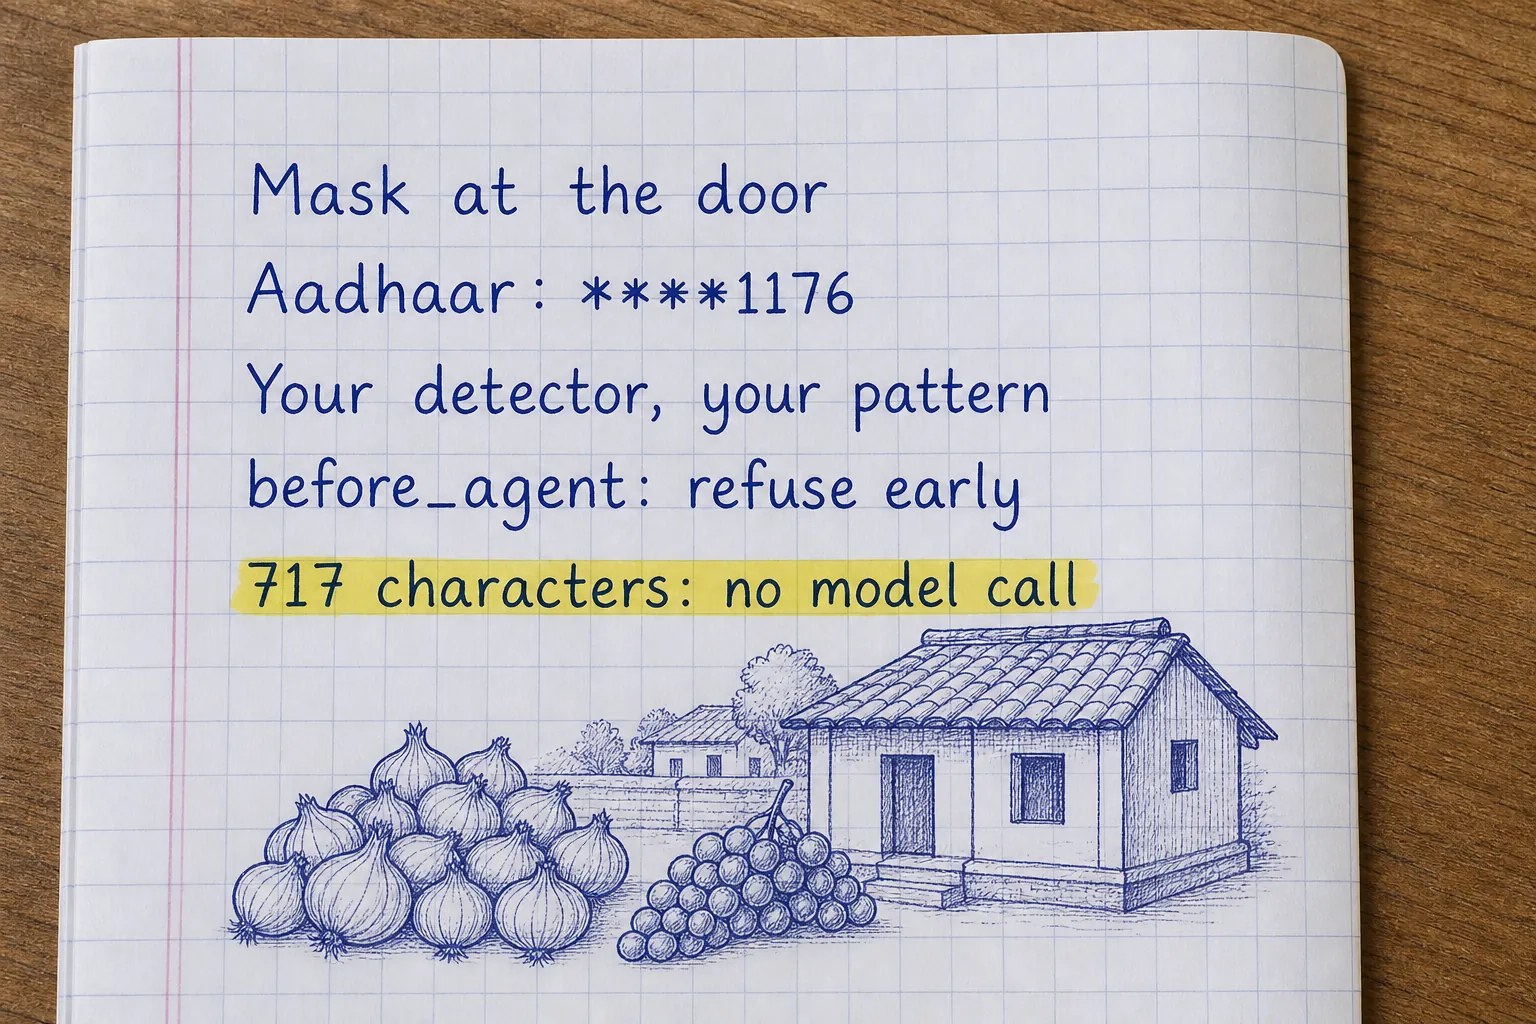
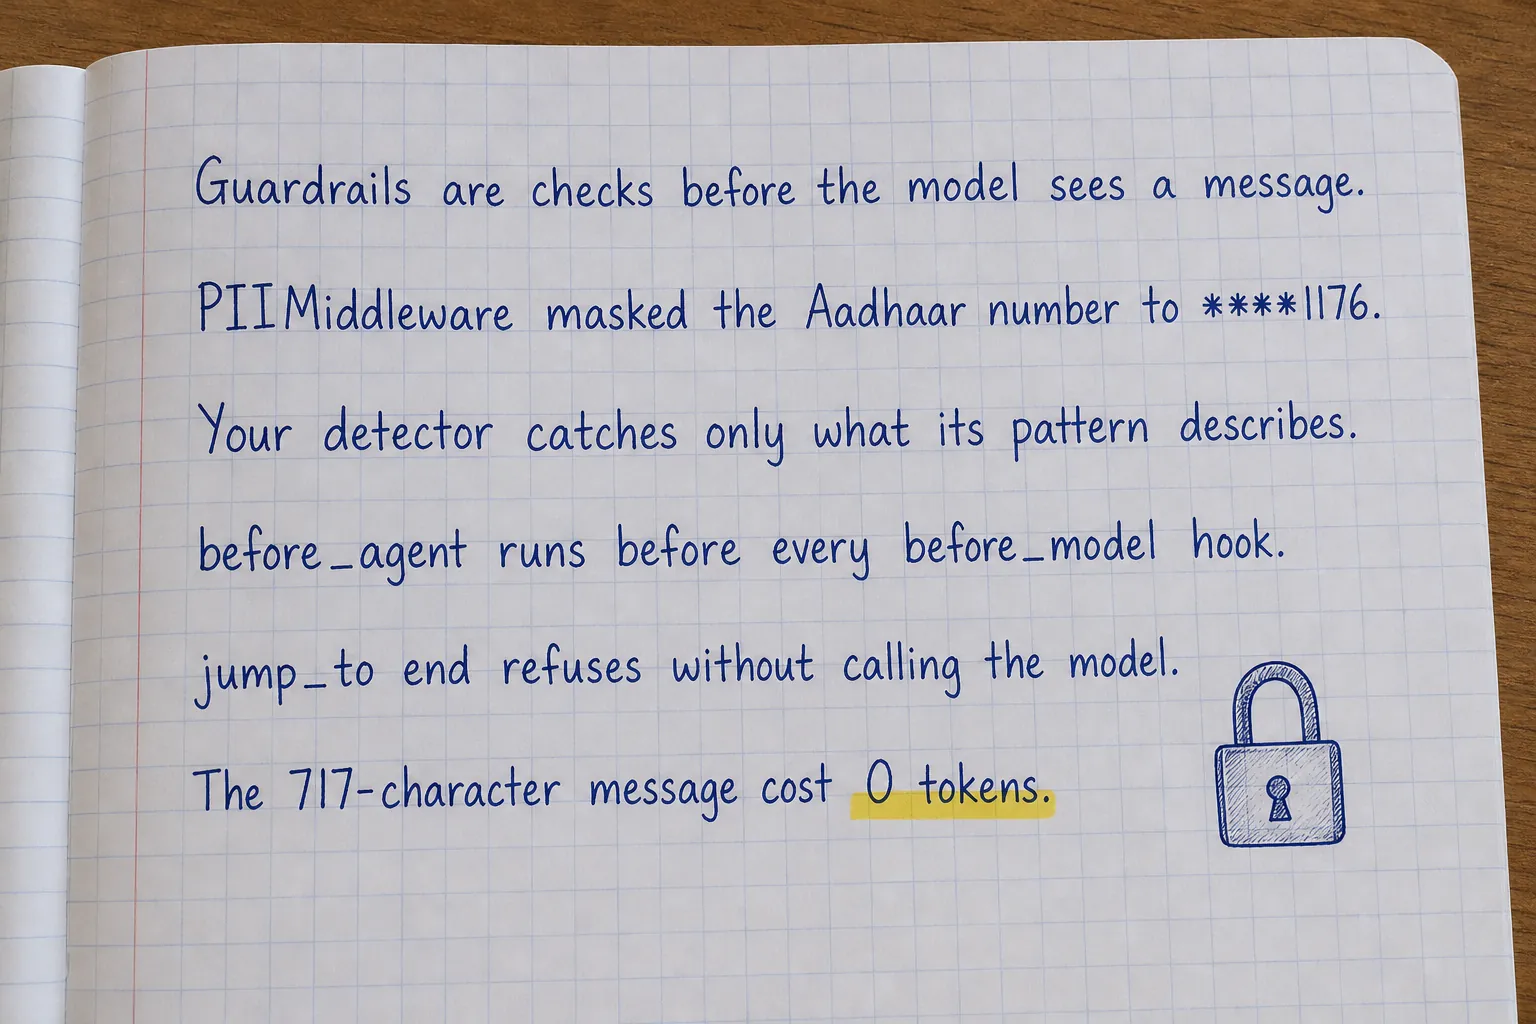
LangChain chapter 24 rewritten: plain and fuller, a still guards picture, the hook order corrected

diff --git a/frontend/src/lesson/Diagrams.tsx b/frontend/src/lesson/Diagrams.tsx
@@ -2577,6 +2577,43 @@ function LcWrapTool() {
   );
 }
 
+function LcGuards() {
+  // Still (owner, 25 November): chapter 24's two real messages through the guards (counts from the lab gateway's log).
+  const lanes: [number, [string, string, BoxTone][]][] = [
+    [8, [
+      ["the Aadhaar question", "54 characters", "plain"],
+      ["length_guard", "54 <= 500: go on", "accent"],
+      ["PIIMiddleware", "4821 3390 1176 -> ****1176", "copy"],
+      ["the model", "165 tokens in, 27 out", "plain"],
+      ["the answer", "the full number never left", "plain"],
+    ]],
+    [228, [
+      ["the long message", "717 characters", "plain"],
+      ["length_guard", "717 > 500: refuse, end", "highlight"],
+      ["PIIMiddleware", "not reached", "plain"],
+      ["the model", "not reached: 0 tokens", "plain"],
+      ["the answer", "TOO_LONG, from the guard", "plain"],
+    ]],
+  ];
+  return (
+    <Svg viewBox="0 0 440 448" label="Two messages through the guards: the Aadhaar question passes the length guard, is masked, and reaches the model; the 717-character message is refused by the length guard and nothing else runs">
+      {lanes.map(([x, rows]) => rows.map(([title, detail, tone], i) => {
+        const y = 4 + i * 84;
+        return (
+          <g key={`${x}-${i}`} opacity={detail.startsWith("not reached") ? 0.5 : 1}>
+            <Box x={x} y={y} w={204} h={58} label="" tone={tone} />
+            <text className="dg-label" x={x + 12} y={y + 23}>{title}</text>
+            <text className="dg-note" x={x + 12} y={y + 44}>{detail}</text>
+            {i < rows.length - 1 && <Arrow x1={x + 102} y1={y + 60} x2={x + 102} y2={y + 82} />}
+          </g>
+        );
+      }))}
+      <text className="dg-note" x={8} y={422}>before_agent hooks (length_guard) run before every</text>
+      <text className="dg-note" x={8} y={440}>before_model hook (PIIMiddleware), whatever the list order.</text>
+    </Svg>
+  );
+}
+
 function LcHumanLoop() {
   return (
     <SketchSteps
@@ -3992,6 +4029,7 @@ const DIAGRAMS: Record<string, () => JSX.Element> = {
   "lg-send": LgSend,
   "lc-middleware": LcMiddleware,
   "lc-wrap-tool": LcWrapTool,
+  "lc-guards": LcGuards,
   "lc-human-loop": LcHumanLoop,
   "lc-rag": LcRag,
   "lc-mcp": LcMcp,

diff --git a/labs/langchain/chapters/24-guardrails.md b/labs/langchain/chapters/24-guardrails.md
@@ -7,8 +7,9 @@ Other messages should not reach the model at all. A member pastes a whole season
 long message a thousand times: each one costs tokens and gives nothing.
 
 Both are **guardrails**: checks that run before the model sees anything. In LangChain they are middleware: the
-built-in `PIIMiddleware` with your own detector for Aadhaar numbers, and a `before_agent` hook that refuses a message
-before the agent even starts.
+built-in `PIIMiddleware` (PII is **personally identifiable information**: anything that points to one person, like an
+identity number or an email address) with your own detector for Aadhaar numbers, and a `before_agent` hook that refuses
+a message before the agent even starts.
 
 :::mission
 Detect Aadhaar numbers so they are masked before the model sees them, and refuse over-long messages without a single
@@ -23,9 +24,11 @@ were common.
 :::
 
 India began issuing **Aadhaar** numbers in **2010**: a 12-digit identity number for every resident, now held by more
-than a billion people and used for bank accounts, subsidies and land records. The **Aadhaar Act** of **2016** limited who
-may collect and store the number, and the **Digital Personal Data Protection Act** of **2023** set rules for all personal
-data: collect only what you need, and protect what you hold. For an AI help desk the practical rule is simple: personal
+than a billion people and used to open bank accounts and to receive government subsidies. The **Aadhaar Act** of
+**2016** set rules for collecting, storing and sharing the number (in **2018** the Supreme Court limited its use by
+private companies), and the **Digital Personal Data Protection Act** of **2023** set rules for all personal data:
+collect only what you need, and protect what you hold. UIDAI, the authority that issues Aadhaar, offers a "masked
+Aadhaar" card that shows only the last four digits, the same idea as this chapter's mask. For an AI help desk the practical rule is simple: personal
 identifiers do not go to a third-party model unless they must.
 
 :::solved
@@ -40,16 +43,18 @@ identifiers do not go to a third-party model unless they must.
 :::
 
 :::step{type=concept title="PII middleware with your own detector" file="24-guardrails/agent.py" line="13-21"}
-`PIIMiddleware` finds personal data in messages and handles it with a strategy:
+`PIIMiddleware` finds personal data in messages and handles it with a **strategy**. We ran all four on the same
+message in the lab:
 
 | Strategy | `4821 3390 1176` becomes |
 |---|---|
 | `"redact"` | `[REDACTED_AADHAAR]` |
 | `"mask"` | `****1176` (only the last digits stay) |
-| `"hash"` | `<aadhaar_hash:81c288af>`: the same number always gives the same code |
-| `"block"` | nothing: the run stops with a `PIIDetectionError` your code must catch |
+| `"hash"` | `<aadhaar_hash:81c288af>`: the same number always gives the same code, so you can still tell two mentions of one number apart from two numbers |
+| `"block"` | nothing: the run stops with `PIIDetectionError: Detected 1 instance(s) of aadhaar in text content`, which your code must catch |
 
-It knows emails, card numbers, IP addresses and URLs by itself. For anything else you give it a **detector**: a function
+It knows emails, card numbers, IP addresses, MAC addresses and URLs by itself (`"email"`, `"credit_card"`, `"ip"`,
+`"mac_address"`, `"url"`). For anything else you give it a **detector**: a function
 that returns the matches, each as `{"type", "value", "start", "end"}`. An Aadhaar number is 12 digits, the first from 2
 to 9, often written in groups of four:
 
@@ -58,18 +63,32 @@ AADHAAR = re.compile(r"\b[2-9]\d{3}\s?\d{4}\s?\d{4}\b")
 PIIMiddleware("aadhaar", detector=find_aadhaar, strategy="mask", apply_to_input=True)
 ```
 
-With `apply_to_input=True` the member's message is masked before it is saved in the thread and before the model call.
+The pattern, piece by piece: `\b` is a word boundary (the number does not start or end inside a longer word or run of digits),
+`[2-9]` one digit from 2 to 9, `\d{3}` three more digits, and `\s?` an optional space between groups. So
+`4821 3390 1176` and `482133901176` both match (we checked); `4821-3390-1176` does not.
+
+With `apply_to_input=True` the member's message is masked before the model call, and the masked text replaces the
+original in the thread. (`PIIMiddleware` is a `before_model` hook, chapter 22's word for that point of the run.)
 :::
 
 :::step{type=task task=aadhaar_detector title="Your turn: find Aadhaar numbers" file="24-guardrails/agent.py" line="18-22"}
-Finish `find_aadhaar(text)`: for every match `m` in `AADHAAR.finditer(text)`, return
-`{"type": "aadhaar", "value": m.group(), "start": m.start(), "end": m.end()}`.
+Finish `find_aadhaar(text)`:
+
+1. Loop over `AADHAAR.finditer(text)`, which gives every match `m`, in order.
+2. For each one, make `{"type": "aadhaar", "value": m.group(), "start": m.start(), "end": m.end()}`.
+3. Return the list of them (an empty list when there is none).
+
+The usual slips:
+
+- `AADHAAR.search(text)`: it finds only the first number, so a message with two keeps the second one.
+- Returning the matched strings: the middleware needs `start` and `end` to know which characters to replace.
 
 Press **Check**.
 :::
 
 :::step{type=concept title="Refusing before the agent starts" file="24-guardrails/agent.py" line="25-31"}
-`@before_agent` runs once, when a run starts, before any model call. Returning `None` lets the run continue. Returning a
+`@before_agent` runs once, when a run starts, before any model call. It gets the agent's **state** (`state["messages"]`
+is the thread so far, so `[-1]` is the member's new message). Returning `None` lets the run continue. Returning a
 state update with `"jump_to": "end"` adds your message and ends the run at once:
 
 ```python
@@ -80,13 +99,29 @@ def length_guard(state, runtime):
     return None
 ```
 
-`can_jump_to=["end"]` declares the jump in advance, so the agent's graph knows this path exists. Order matters too: the
-guard comes first in the middleware list, so a refused message never reaches the PII check, the logs or the model.
+`can_jump_to=["end"]` declares the jump in advance, so the agent's graph knows this path exists.
+
+:::diagram{name="lc-guards"}
+This chapter's two real messages, through both guards. The token counts are from the lab gateway's log.
+:::
+
+The guard runs first because of its hook, not its place in the list: every `before_agent` hook runs before every
+`before_model` hook. So a refused message never reaches the PII check or the model. Within one kind of hook, list order
+decides (chapter 23).
 :::
 
 :::step{type=task task=length_guard title="Your turn: the length guard" file="24-guardrails/agent.py" line="25-31"}
-Finish `length_guard(state, runtime)`: if the last message's content is longer than `MAX_CHARS`, return
-`{"messages": [AIMessage(TOO_LONG)], "jump_to": "end"}`; otherwise return `None`.
+Finish `length_guard(state, runtime)`:
+
+1. Take the last message's text: `state["messages"][-1].content`.
+2. If its length is over `MAX_CHARS` (500), return `{"messages": [AIMessage(TOO_LONG)], "jump_to": "end"}`.
+3. Otherwise return `None`.
+
+The usual slips:
+
+- `len(state["messages"][-1])`, without `.content`: a message object has no length, so Python raises `TypeError`.
+- Leaving out `"jump_to": "end"`. We tried it: the refusal was added, then the model was called anyway, and the
+  member got two answers (and the co-op paid for the second).
 
 ```bash run
 cd /workspace/24-guardrails && python main.py
@@ -96,6 +131,9 @@ Press **Check**.
 :::
 
 :::step{type=try title="A masked number, and a refusal that cost nothing"}
+A real run (again on 25 November: the same saved texts and the same refusal; the answer to the first question came in
+other words, "I cannot verify personal information like Aadhaar numbers"):
+
 ```text
 $ python main.py
 > My Aadhaar is 4821 3390 1176. Is my membership active?
@@ -107,11 +145,12 @@ $ python main.py
   That message is too long for me. Please ask in a few sentences, or call the co-op office.
 ```
 
-The Aadhaar number was masked to `****1176` **in the saved conversation**, so neither the model nor the thread ever held
-it. Navin then answered honestly: it has no tool to check membership, and said so.
+The Aadhaar number was masked to `****1176` **in the saved conversation**, and the request in the gateway's log has
+`"My Aadhaar is ****1176. Is my membership active?"`: the full number never left the machine. Navin then answered honestly: it has no tool to check membership, and said so.
 
-The 717-character message got the refusal straight from the guard. The model was never called: no tokens, no cost, and
-nothing from that message went anywhere.
+The 717-character message ("Please read my whole story. ", 28 characters, 25 times, then "What should I do?") got the
+refusal straight from the guard. The model was never called: the gateway's log has no request for it, so no tokens and
+no cost.
 :::
 
 :::step{type=predict title="Guess first"}
@@ -135,7 +174,8 @@ Why does the length guard run before the PII middleware?
 - [ ] PII middleware cannot read long messages
 - [ ] The order does not matter
 :::explain
-Middleware runs in list order. Cheap refusals go first.
+`before_agent` hooks run before every `before_model` hook, and `PIIMiddleware` is a `before_model` hook. Cheap
+refusals go first.
 :::
 :::
 
@@ -152,8 +192,10 @@ The member gets your message; the model is never called.
 :::
 
 :::step{type=deep-dive title="Go deeper: guardrails in production"}
-**Checksums.** Real Aadhaar numbers end with a Verhoeff check digit. A detector that verifies it catches fewer false
-matches, like a 12-digit phone number written in groups.
+**Checksums.** Real Aadhaar numbers end with a **Verhoeff check digit**, a last digit computed from the other eleven.
+A detector that verifies it catches fewer false matches, like a 12-digit order number. Our example `4821 3390 1176`
+fails the check (we computed it: a valid number would end in 7), so it cannot belong to anyone, which is why it is
+safe for a lesson; a checksum detector would also let it through.
 
 **Output too.** `apply_to_output=True` checks what the model writes, and `apply_to_tool_results=True` what tools return
 (a database row with someone's number in it).
@@ -172,7 +214,7 @@ You can now:
 
 Next, chapter 25: a person in the loop. The manager approves every booking before Navin makes it.
 
-:::photo{src="/lesson-images/langchain/lc-24-notes.webp" alt="Handwritten notes about guardrails: Mask at the door; Aadhaar: ****1176; Your detector, your pattern; before_agent: refuse early; 717 characters: no model call" ai="true"}
+:::photo{src="/lesson-images/langchain/lc-24-notes.webp" alt="Handwritten notes about guardrails: Guardrails are checks before the model sees a message. PIIMiddleware masked the Aadhaar number to ****1176. Your detector catches only what its pattern describes. before_agent runs before every before_model hook. jump_to end refuses without calling the model. The 717-character message cost 0 tokens." ai="true"}
 One page of notes for this chapter.
 :::
 :::

diff --git a/CHANGELOG.md b/CHANGELOG.md
@@ -1,5 +1,17 @@
 # Changelog
 
+## 25 November: LangChain chapter 24 rewritten (easy, a little detailed, checked)
+
+- PII, the regular expression (piece by piece), state and the Verhoeff check digit are explained where they first
+  appear; both tasks list their steps and the usual slips (`search` finds only the first number; `len()` of a message
+  object; leaving out `jump_to`, tried: the model was called anyway and the member got two answers).
+- A new still picture: the chapter's two real messages through both guards, with the gateway's token counts.
+- Checked in the lab: all four strategies give the table's outputs; the gateway's request held only `****1176`; no
+  request at all for the 717-character message. Corrected: the length guard runs first because `before_agent` hooks
+  run before `before_model` hooks (`PIIMiddleware` is one), not because of its place in the list. The history now
+  says the Aadhaar Act "set rules" (and the 2018 Supreme Court limit), adds UIDAI's masked Aadhaar, and drops "land
+  records". The example number fails the Verhoeff check, so it cannot be anyone's. A new notes page.
+
 ## 25 November: LangChain chapter 23 rewritten (easy, a little detailed, checked)
 
 - Decorator, `ModelRequest` and `ToolCallRequest` are explained where they first appear; both tasks list their steps and

diff --git a/REWRITE_LIST.md b/REWRITE_LIST.md
@@ -11,7 +11,7 @@ Status: **1 of 23 labs done** (13 of 319 chapters).
 | # | Lab | Title | Chapters | Status | Done on |
 |---|---|---|---|---|---|
 | 1 | rag-vector-databases | RAG and vector databases | 13 | done (13 of 13) | 25 Nov |
-| 2 | langchain | LangChain | 27 | in progress (23 of 27) | |
+| 2 | langchain | LangChain | 27 | in progress (24 of 27) | |
 | 3 | langchain4j | LangChain4j | 30 | not started | |
 | 4 | langgraph | LangGraph | 24 | not started | |
 | 5 | spring-ai | Spring AI | 20 | not started | |
